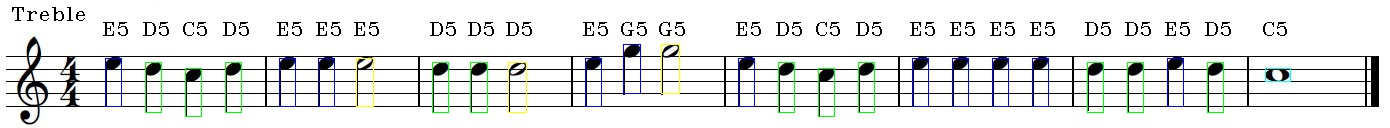
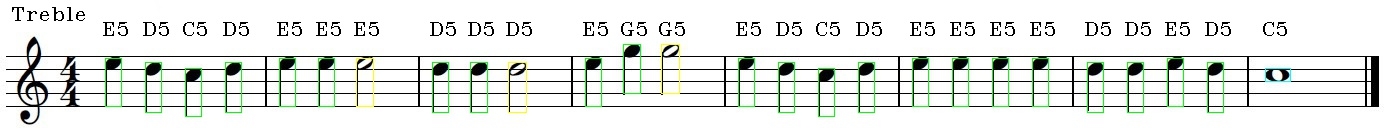
Testing kernel size 5 vs 6

diff --git a/notesTest.py b/notesTest.py
@@ -93,7 +93,7 @@ def findBestMatch(note):
     ksize = 2
     kernel = cv2.getStructuringElement(cv2.MORPH_ELLIPSE, (ksize, ksize))
     note = cv2.morphologyEx(note, cv2.MORPH_OPEN, kernel)
-    # note = cv2.morphologyEx(note, cv2.MORPH_CLOSE, kernel)
+    note = cv2.morphologyEx(note, cv2.MORPH_CLOSE, kernel)
 
     params = cv2.SimpleBlobDetector_Params()
     params.filterByColor = True
@@ -214,7 +214,7 @@ def notesTest(img_name):
     # cv2.imshow("Gray Image",imgGr)
     _, imgGr = cv2.threshold(imgGr, 200, 255, cv2.THRESH_BINARY_INV)
 
-    cv2.imshow("Thresh Image",imgGr)
+    # cv2.imshow("Thresh Image",imgGr)
     lineOut, lineLocs = lineout(imgGr)
 
     indx = calcStaffInd(lineLocs)
@@ -222,7 +222,7 @@ def notesTest(img_name):
     cv2.putText(img, clef, (10, 20), cv2.FONT_HERSHEY_COMPLEX_SMALL, 1, (0, 0, 0))
     print(clef)
     # print(indx)
-    ksize = 5
+    ksize = 6
     kernel = cv2.getStructuringElement(cv2.MORPH_ELLIPSE, (ksize, ksize))
     lineOut = cv2.morphologyEx(lineOut, cv2.MORPH_CLOSE, kernel)
     # lineOut = cv2.morphologyEx(lineOut,cv2.MORPH_OPEN,kernel)
@@ -232,8 +232,8 @@ def notesTest(img_name):
     song_durations = []
     note_positions = []
     _, notes = cv2.threshold(lineOut, 200, 255, cv2.THRESH_BINARY_INV)
-    cv2.imshow('Inv', notes)
-    cv2.waitKey()
+    # cv2.imshow('Inv', notes)
+    # cv2.waitKey()
 
     num_labels_black, labels_img_black, stats_black, centroids_black = cv2.connectedComponentsWithStats(
         cv2.bitwise_not(notes))
@@ -248,7 +248,7 @@ def notesTest(img_name):
         y0 = stat[cv2.CC_STAT_TOP]
         x1 = x0 + stat[cv2.CC_STAT_WIDTH]
         y1 = y0 + stat[cv2.CC_STAT_HEIGHT]
-        if (min(lineLocs) - y0 < staff_tol) and (y1 - max(lineLocs) < staff_tol) and stat[cv2.CC_STAT_WIDTH] > 5:
+        if (min(lineLocs) - y0 < staff_tol) and (y1 - max(lineLocs) < staff_tol) and stat[cv2.CC_STAT_WIDTH] > 4:
             # match = findBestMatch(notes[y0:y1,x0:x1])
             # print(match)
             objects.append([x0, y0, x1, y1, round(centroids_black[i, 0]), round(centroids_black[i, 1])])
@@ -355,6 +355,6 @@ if __name__ == '__main__':
     # for i in range(4,7):
         name = 'mySimpleSong' + str(i) + '.jpg'
         img, durations, notes = notesTest(name)
-        name2 = 'mySimpleSong' + str(i) + '-5-solved.jpg'
+        name2 = 'mySimpleSong' + str(i) + '-6-solved.jpg'
         cv2.imwrite(name2, img)
         playCalced(durations, notes)
